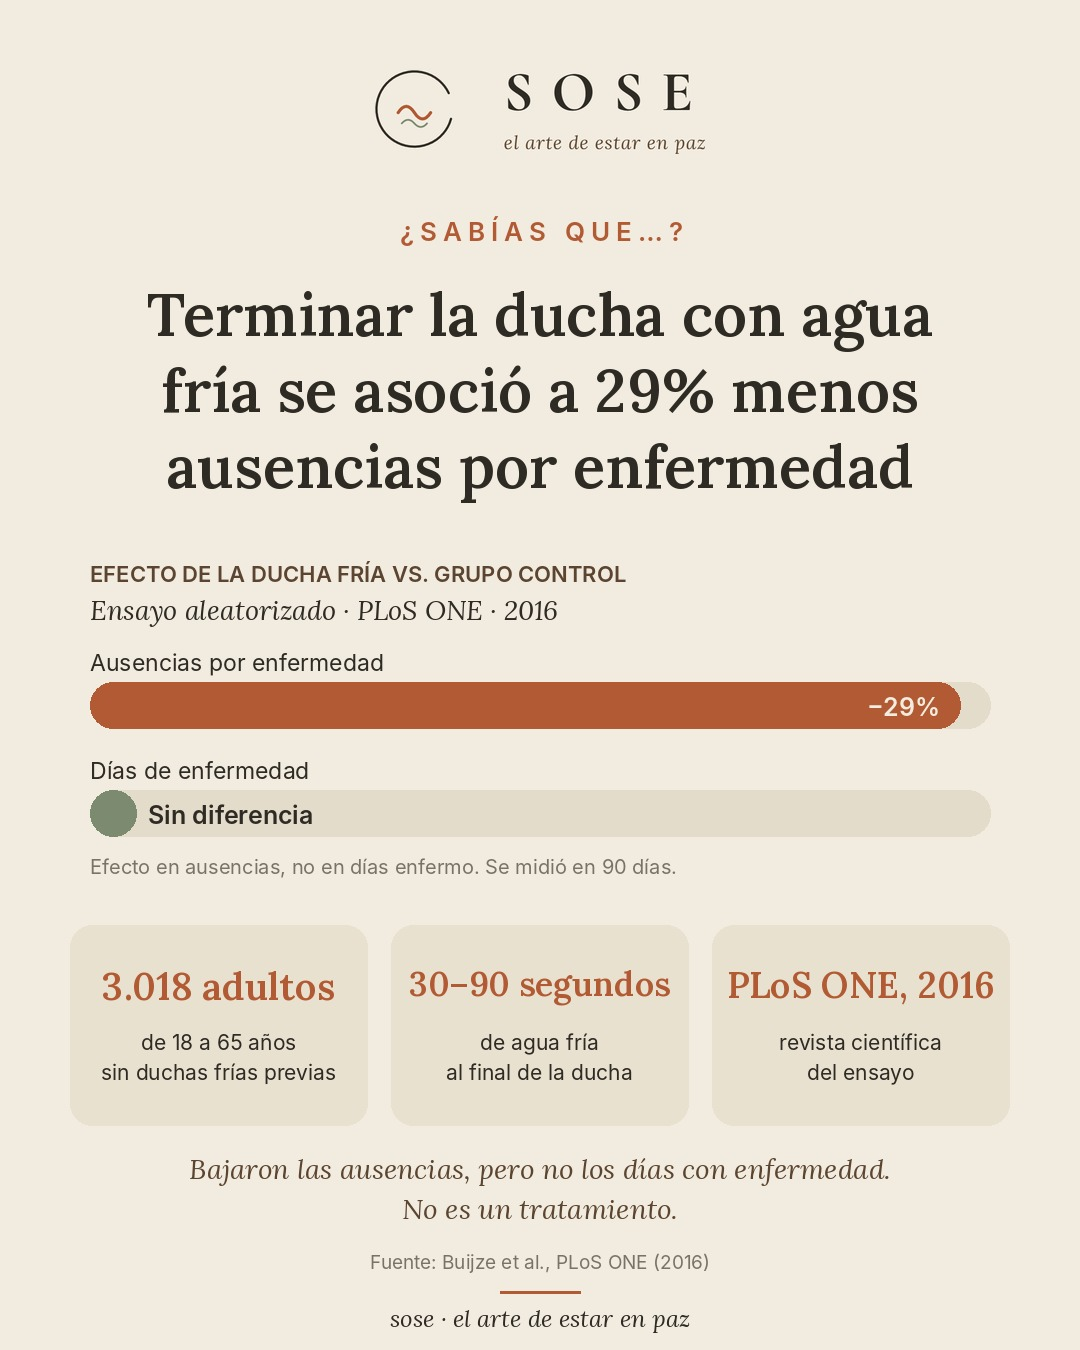
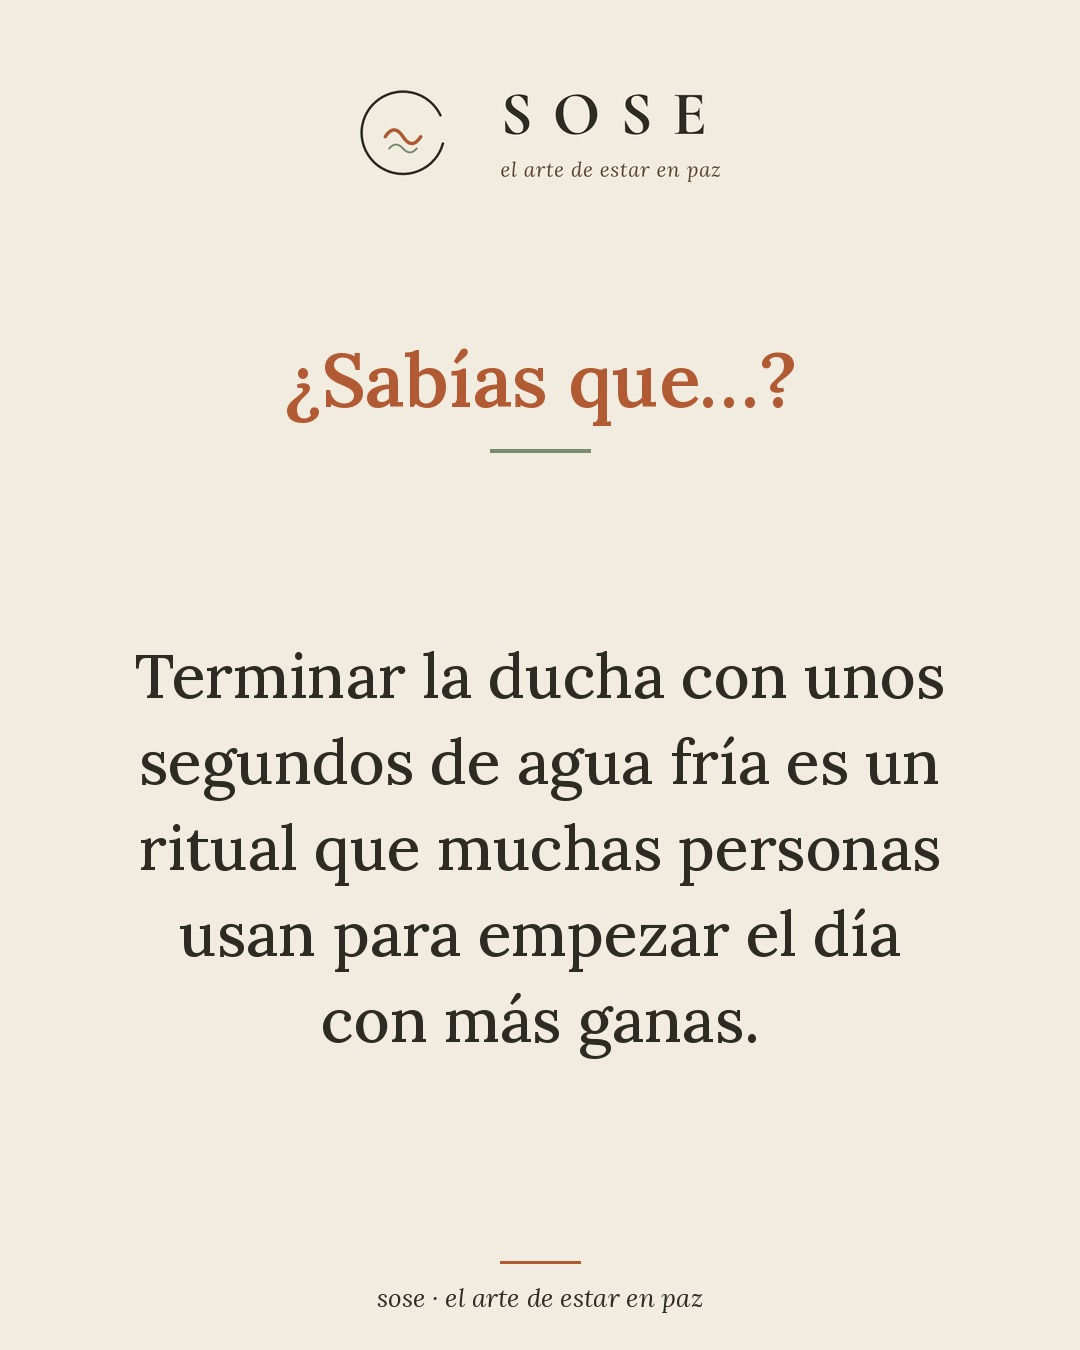
SOSE: nuevo formato simple (¿Sabías que…? + frase corta, sin datos científicos); posts 2026-10-24
Claude-Session: https://claude.ai/code/session_017U7hPNCFYpPZXxr2rXwoFu

diff --git a/sose/tools/render_post.py b/sose/tools/render_post.py
@@ -38,7 +38,34 @@ def wrap_px(d, text, f, maxw):
     return lines
 
 
+def render_simple(spec, out_jpg):
+    """Formato simple: logo + kicker + una frase corta. Sin graficas, tarjetas ni fuentes."""
+    img = Image.new("RGB", (W, H), MARFIL); d = ImageDraw.Draw(img)
+    logo = Image.open(os.path.join(SOSE, "assets", "SOSE_lockup_horizontal.png")).convert("RGB")
+    diff = ImageChops.difference(logo, Image.new("RGB", logo.size, MARFIL)).point(lambda p: 255 if p > 40 else 0).convert("L")
+    b = diff.crop((20, 20, logo.width - 20, logo.height - 20)).getbbox()
+    logo = logo.crop((b[0] + 20, b[1] + 20, b[2] + 20, b[3] + 20))
+    lw = 360; logo = logo.resize((lw, int(logo.height * lw / logo.width)), Image.LANCZOS)
+    img.paste(logo, ((W - lw) // 2, 90))
+    kf = font(LORA, 76, "SemiBold"); center(d, spec["kicker"], 330, kf, ARCILLA)
+    d.line((W / 2 - 50, 450, W / 2 + 50, 450), fill=SALVIA, width=4)
+    size = 62
+    while True:
+        hf = font(LORA, size, "Medium"); lines = wrap_px(d, spec["texto"], hf, 840)
+        if len(lines) <= 7 or size <= 40: break
+        size -= 2
+    lh = int(size * 1.4); total = lh * len(lines)
+    y = 500 + (700 - total) / 2
+    for ln in lines:
+        center(d, ln, y, hf, TINTA); y += lh
+    d.line((W / 2 - 40, 1262, W / 2 + 40, 1262), fill=ARCILLA, width=3)
+    center(d, "sose · el arte de estar en paz", 1280, font(LORAI, 26, "Italic"), TINTA)
+    img.save(out_jpg, "JPEG", quality=92, optimize=True)
+
+
 def render(spec, out_jpg):
+    if spec.get("formato") == "simple":
+        return render_simple(spec, out_jpg)
     img = Image.new("RGB", (W, H), MARFIL); d = ImageDraw.Draw(img)
     logo = Image.open(os.path.join(SOSE, "assets", "SOSE_lockup_horizontal.png")).convert("RGB")
     diff = ImageChops.difference(logo, Image.new("RGB", logo.size, MARFIL)).point(lambda p: 255 if p > 40 else 0).convert("L")
@@ -110,7 +137,7 @@ def main(path):
     rows = list(csv.DictReader(open(csvp, encoding="utf-8-sig"))) if os.path.exists(csvp) else []
     rows = [r for r in rows if not (r.get("fecha") == spec["fecha"] and r.get("slot") == spec["slot"])]
     rows.append({"fecha": spec["fecha"], "slot": spec["slot"], "categoria": spec["categoria"], "tema": spec["tema"], "titulo": spec["titulo"],
-                 "dato_clave": " · ".join(c[0] for c in spec["cards"]), "caption_instagram": spec["caption_ig"], "caption_facebook": spec["caption_fb"],
+                 "dato_clave": spec["texto"] if spec.get("formato") == "simple" else " · ".join(c[0] for c in spec["cards"]), "caption_instagram": spec["caption_ig"], "caption_facebook": spec["caption_fb"],
                  "hashtags": spec["hashtags"], "texto_alternativo": spec["alt"], "fuente": spec["fuente"], "url_fuente": spec["url_fuente"],
                  "archivo_grafica": base + ".jpg", "estado": "programado"})
     with open(csvp, "w", newline="", encoding="utf-8-sig") as f:
